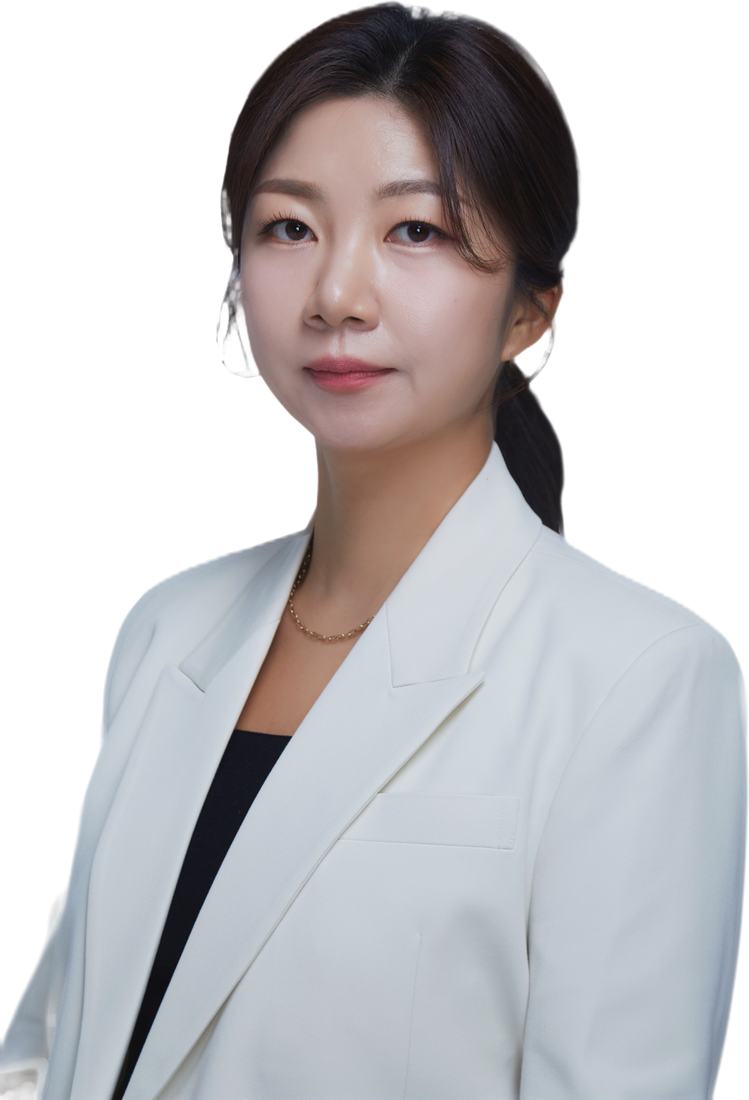
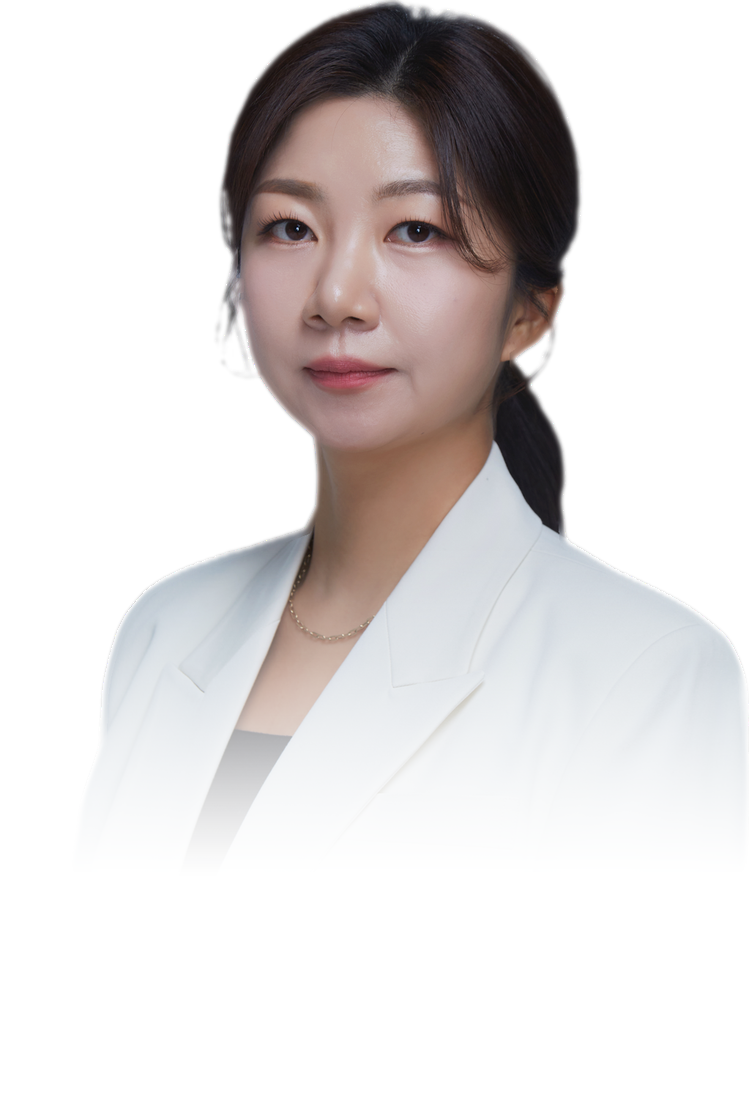
탑시크릿 클래스: 프로필 경계 없이 자연스럽게 페이드

diff --git a/topsecret/index.html b/topsecret/index.html
@@ -59,7 +59,7 @@ h3 .red,h4 .red,.mid .red,.lead .red{font-size:1.12em;font-weight:800}
 .hero>.wrap>div:first-child{padding:38px 0 34px}
 .hero .who{font-size:17px;color:#bbb;margin:0;letter-spacing:.02em}
 .hero .photo{align-self:stretch;position:relative;overflow:hidden;padding-top:26px}
-.hero .photo img{position:absolute;top:26px;right:-6%;width:118%;height:auto;max-width:none;display:block;filter:drop-shadow(0 0 26px rgba(255,120,130,.28)) drop-shadow(0 12px 24px rgba(0,0,0,.55))}
+.hero .photo img{position:absolute;top:26px;right:-6%;width:118%;height:auto;max-width:none;display:block;-webkit-mask-image:linear-gradient(to right,#000 88%,transparent 100%);mask-image:linear-gradient(to right,#000 88%,transparent 100%);filter:drop-shadow(0 0 26px rgba(255,120,130,.28)) drop-shadow(0 12px 24px rgba(0,0,0,.55))}
 .hero .photo::before{content:"";position:absolute;right:-10%;top:10%;width:110%;height:90%;background:radial-gradient(ellipse at 60% 45%,rgba(255,110,120,.16),rgba(255,110,120,0) 65%);pointer-events:none}
 .hero .photo .ph{width:100%;max-width:250px;height:280px;border:1px dashed #666;border-radius:8px 8px 0 0;display:flex;align-items:center;justify-content:center;color:#888;font-size:12px;text-align:center;padding:12px;line-height:1.5}
 @media(max-width:400px){.hero h2{font-size:27px}}
